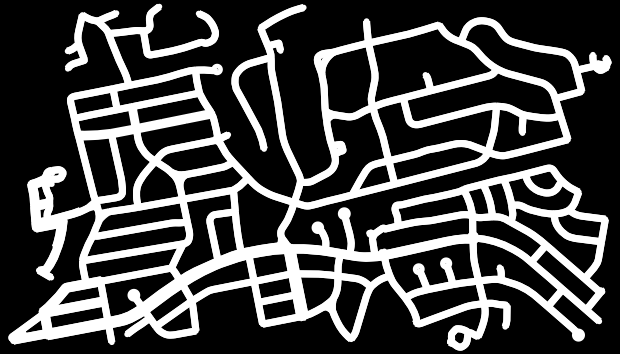
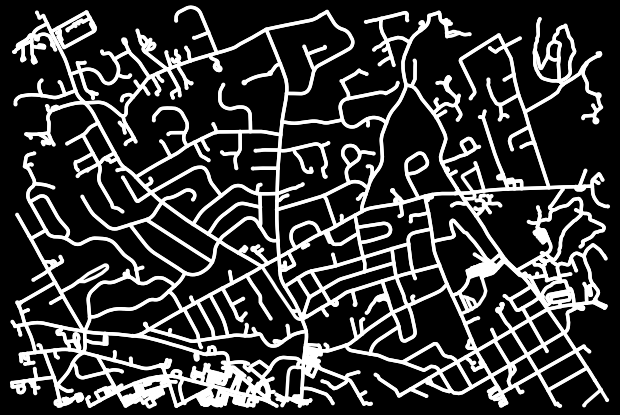
coordinate functionality added

diff --git a/run.py b/run.py
@@ -3,6 +3,9 @@ from PIL import Image
 import numpy as np
 from matplotlib import pyplot as plt
 import os
+import osmnx as ox
+from math import radians, sin, cos, sqrt, atan2
+from scipy.spatial.distance import cdist
 
 def prepare(image_path, new_width):
     threshold = 128 #doesn't matter for black and white inputs, for colored inputs mess around with this value to get correct polarization between walls and space
@@ -63,19 +66,53 @@ def read_array_from_file(filename):
             array.append([int(x) for x in line.split()])
     return np.array(array)
 
+def save_street_network_image(max_lat, min_lat, max_lon, min_lon, filename):
+    graph = ox.graph_from_bbox(max_lat, min_lat, max_lon, min_lon, network_type='all')
+    
+    street_width_meter = 3
+    node_size_meter = 10
+    
+    lat_distance = (max_lat - min_lat) * 50
+    lon_distance = (max_lon - min_lon) * 50
+    
+    #if this is smaller, the width should get bigger
+    
+    edge_linewidth = street_width_meter/min(lat_distance, lon_distance)
+    node_size = node_size_meter/min(lat_distance, lon_distance)
+
+
+    fig, ax = ox.plot_graph(graph, bgcolor='black', edge_color='white', node_color='white', node_size=node_size, edge_linewidth=edge_linewidth, show=False)
+    plt.savefig(filename, bbox_inches='tight', pad_inches=0)
+    plt.close(fig)
+
 def run_c_program(rows, cols):
     range_val = 10 # work in progress, don't mind it
     subprocess.run(['./process', str(rows), str(cols), str(range_val), 'input.txt'])
 
-def main(image_path, new_width):
+def run(image_path, new_width):
+    print("Processing...")
     array = prepare(image_path, new_width)
     rows, cols = array.shape
     write_array_to_file(array, 'input.txt')
     run_c_program(rows, cols,)
     result_array = read_array_from_file('data.txt')
     finish(result_array)
+    print("Done!")
 
 if __name__ == "__main__":
     image_path = 'test_imgs/street.png'  # Change this to your image path
     new_width = 200
-    main(image_path, new_width)
+    type = input("Type '1' if you are using coordinates, type '2' if you are using a custom image: ")
+    if type == "1":
+        max_coords = (float(input("Max Latitude: ")), float(input("Max Longitude: ")))
+        min_coords = (float(input("Min Latitude: ")), float(input("Min Longitude: ")))
+        width = int(input("Width: "))
+        image_path = "test_imgs/street.png"
+        print("Loading streets...")
+        bounds = (min_coords[0], min_coords[1], max_coords[0], max_coords[1])
+        save_street_network_image(bounds[2], bounds[0], bounds[3], bounds[1], image_path)
+        run(image_path, width)
+    else:
+        image_path = input("Image Path: ")
+        width = int(input("Width (pixels): "))
+        run(image_path, width)
